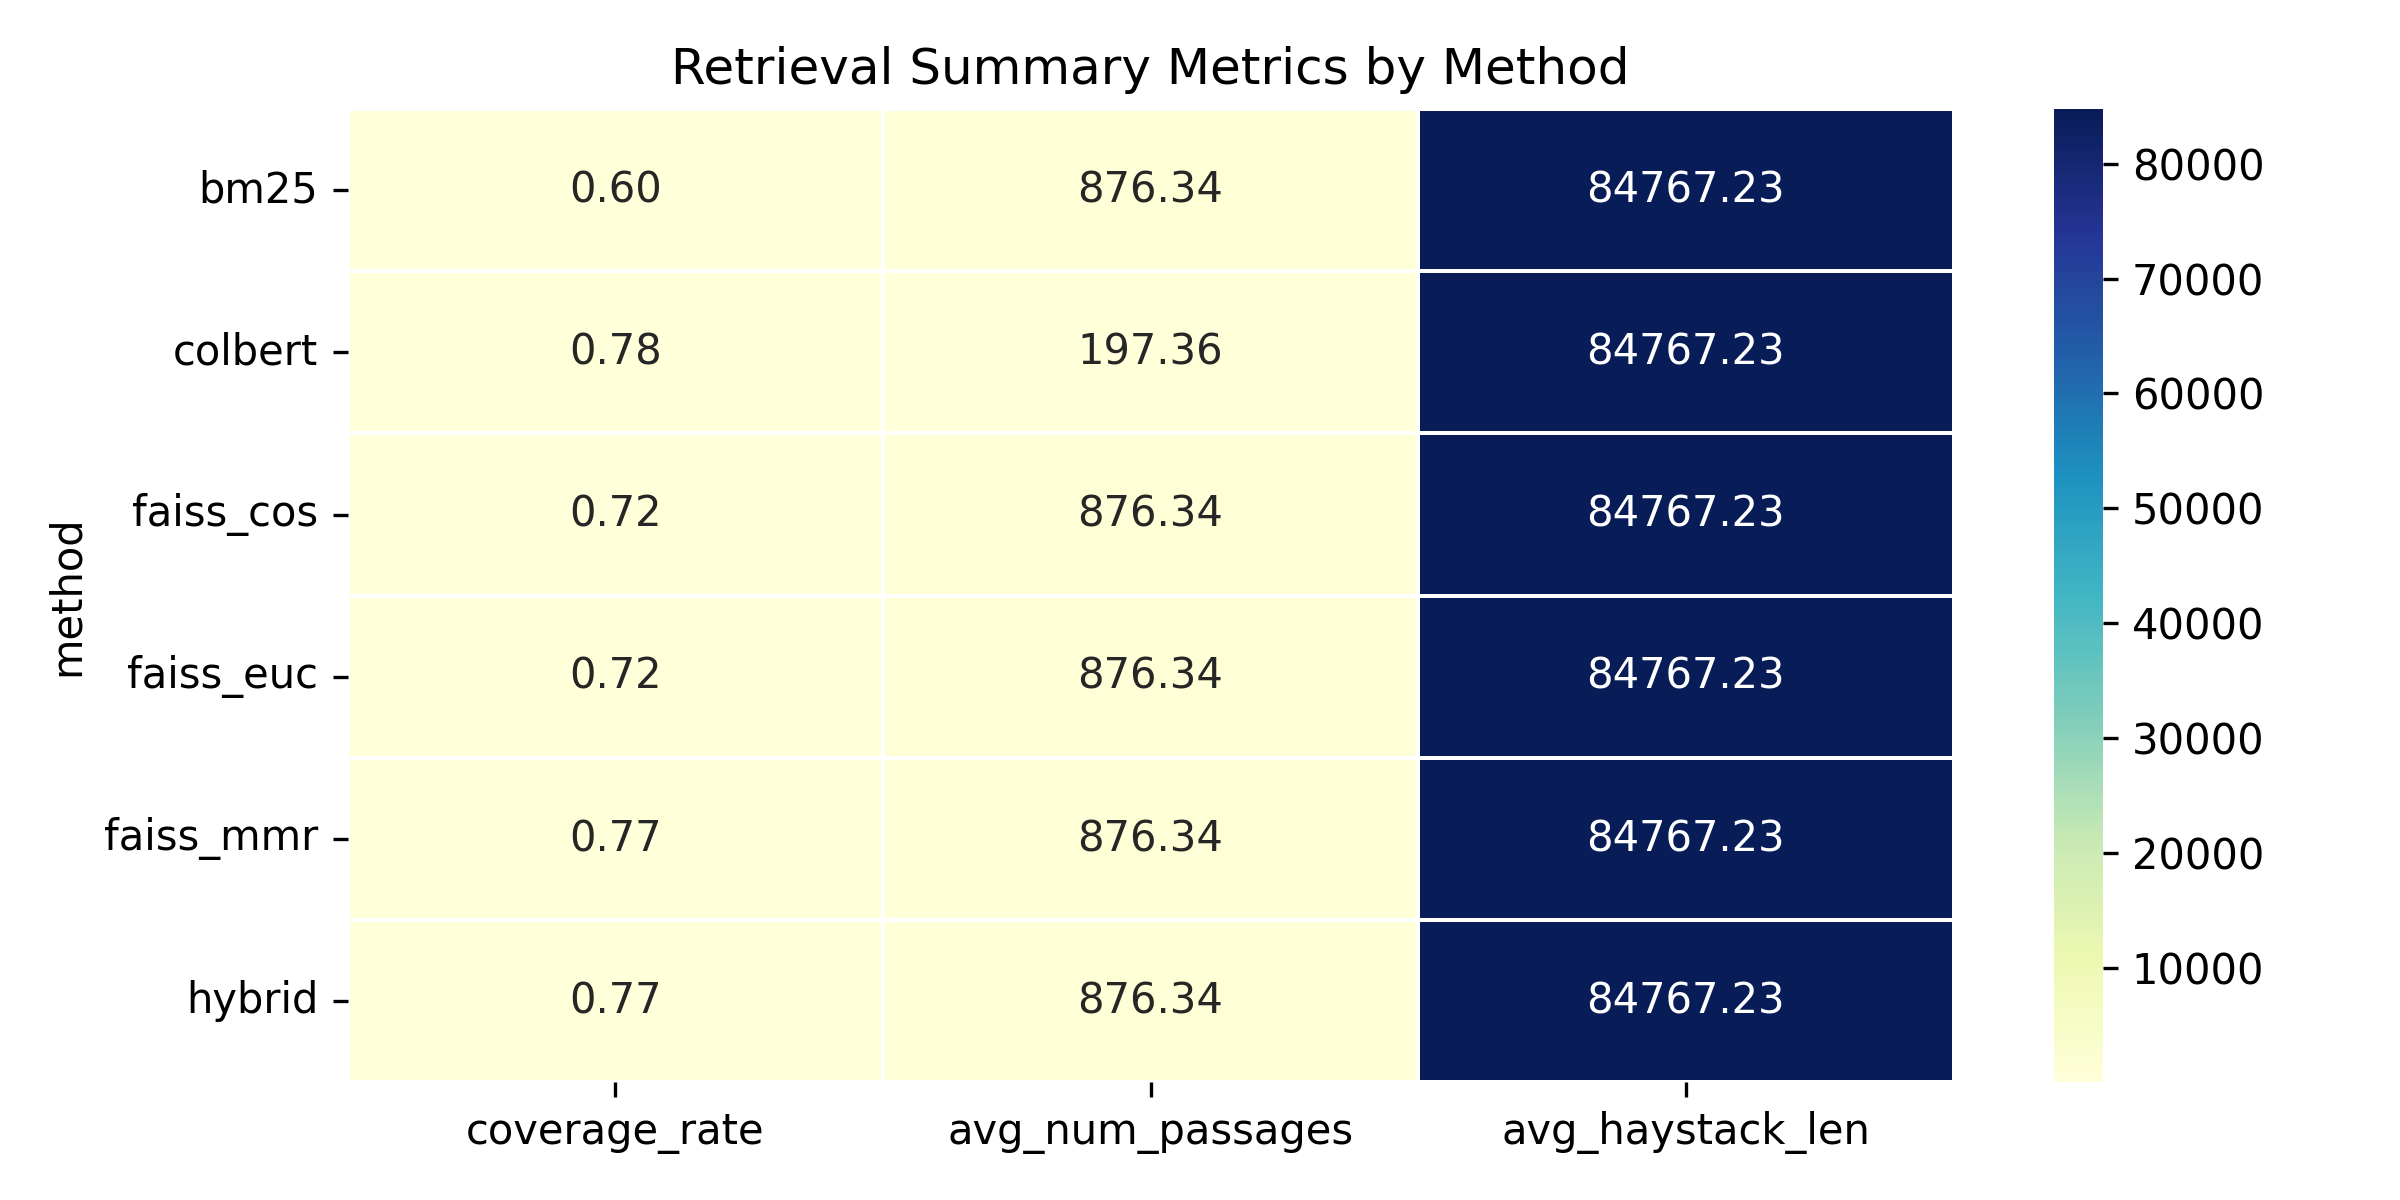
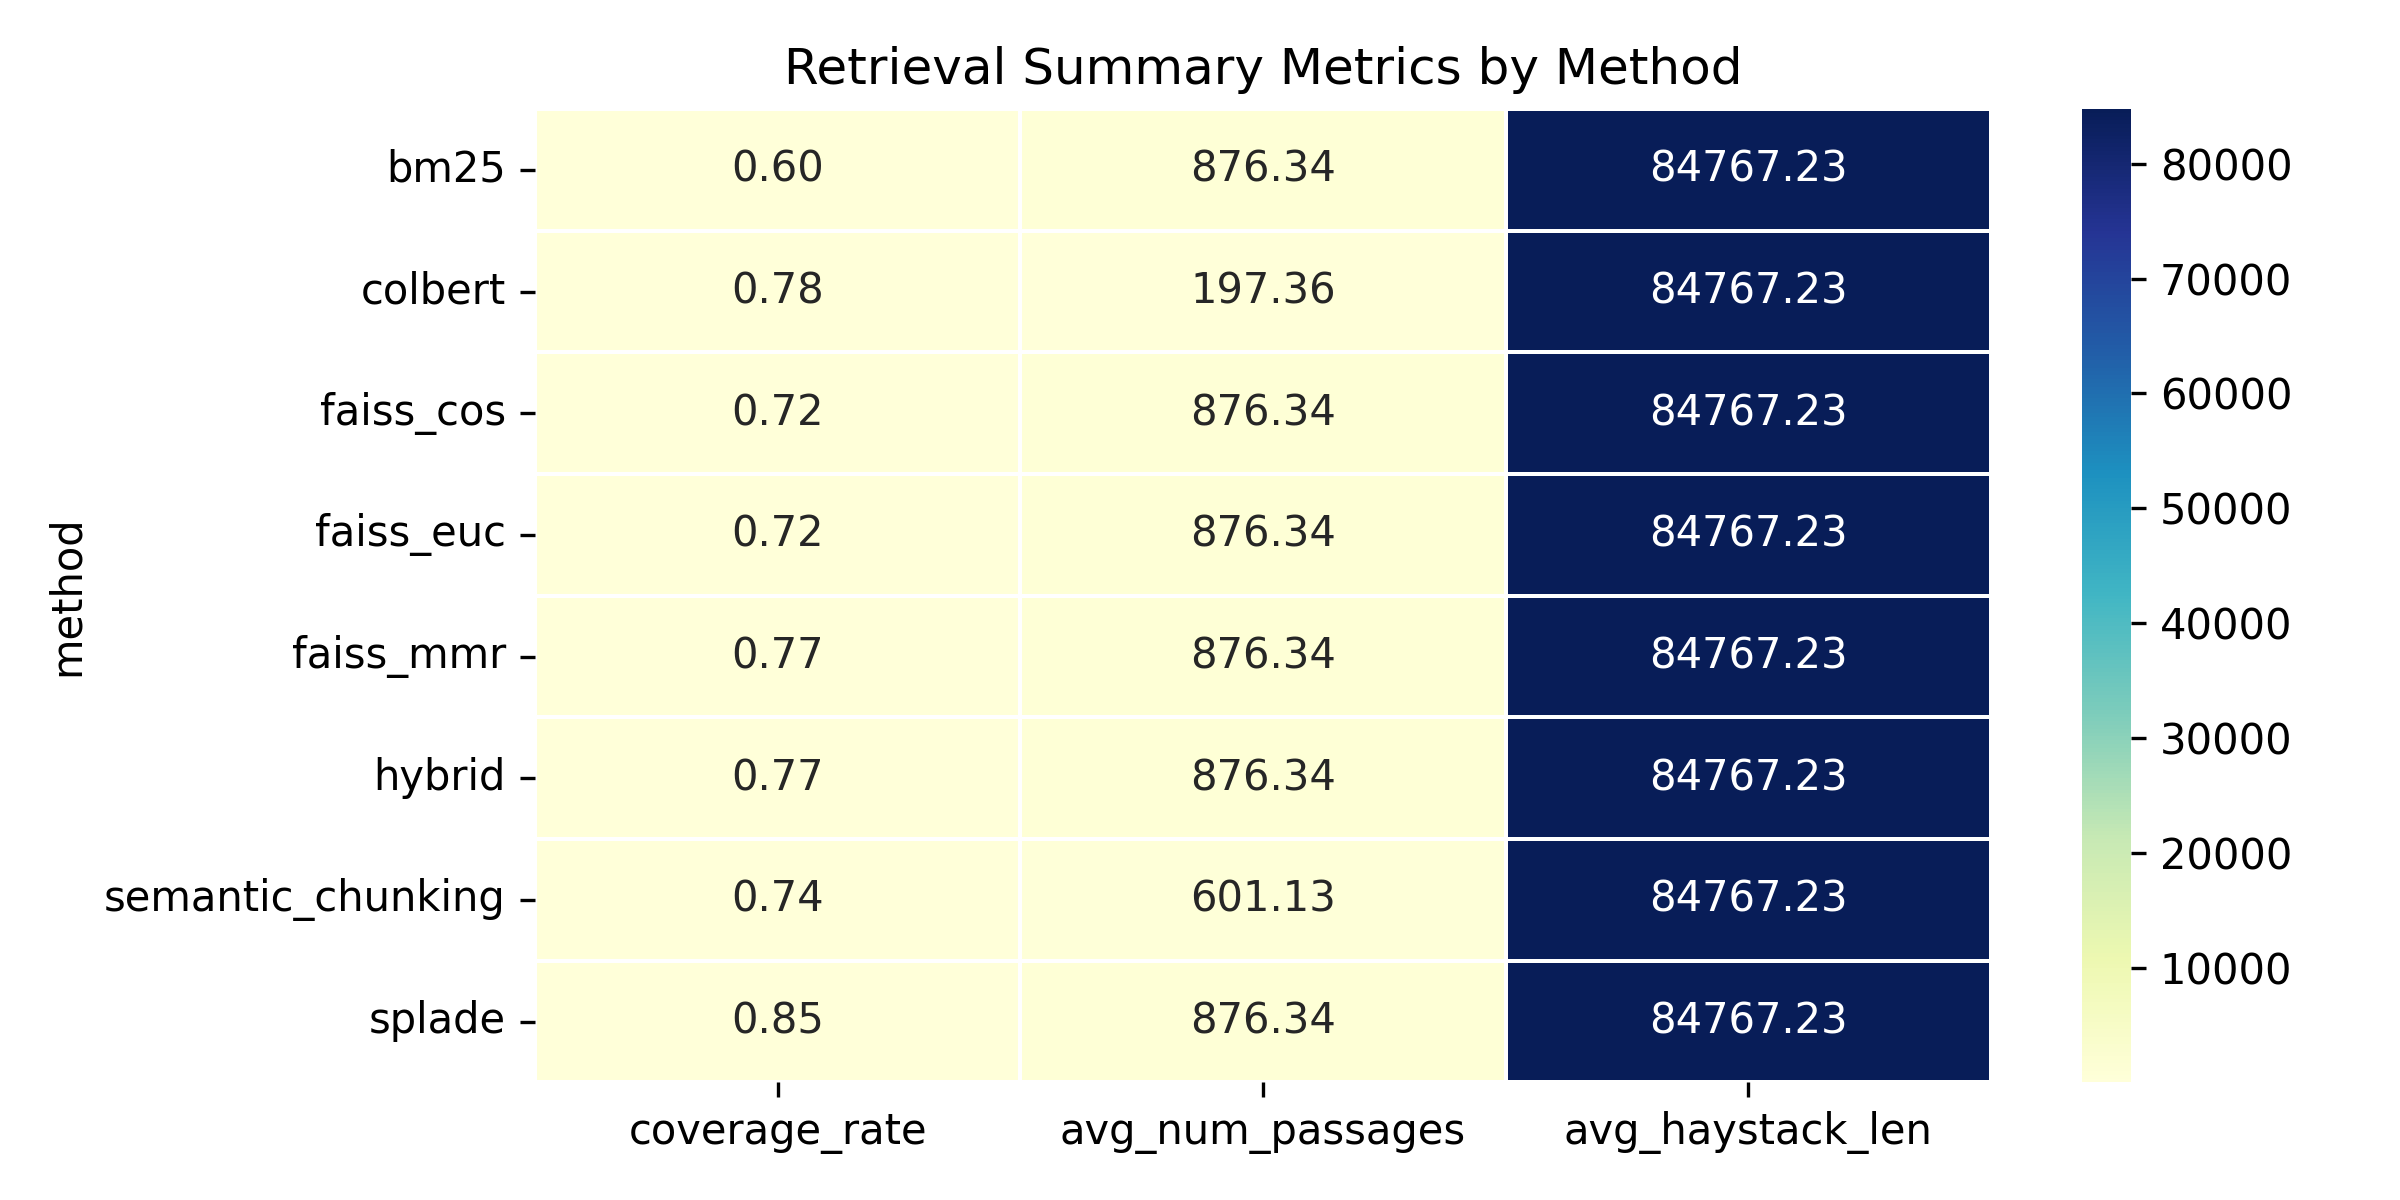
add splade ann semantic chunking retrieval results

diff --git a/src/retrieval_query/splade.py b/src/retrieval_query/splade.py
@@ -1,0 +1,142 @@
+import os
+import argparse
+import numpy as np
+import pandas as pd
+from tqdm import tqdm
+
+import nltk
+from nltk.tokenize import sent_tokenize
+nltk.download("punkt")
+
+os.environ["TOKENIZERS_PARALLELISM"] = "false"
+os.environ["OMP_NUM_THREADS"] = "1"
+os.environ["MKL_NUM_THREADS"] = "1"
+
+import torch
+from transformers import AutoTokenizer, AutoModelForMaskedLM
+
+DEFAULT_SPLADE = "naver/splade-cocondenser-ensembledistil"
+
+
+def chunk_sliding_sentences(text: str, window_size: int = 3):
+    sents = sent_tokenize(str(text))
+    if not sents:
+        return []
+    if window_size <= 0 or len(sents) <= window_size:
+        return [" ".join(sents)]
+    return [" ".join(sents[i:i + window_size]) for i in range(len(sents) - window_size + 1)]
+
+
+@torch.no_grad()
+def splade_encode(texts, tokenizer, model, device, max_length=256):
+
+    tok = tokenizer(
+        texts,
+        padding=True,
+        truncation=True,
+        max_length=max_length,
+        return_tensors="pt",
+    ).to(device)
+
+    logits = model(**tok).logits  # [B, T, V]
+    weights = torch.log1p(torch.relu(logits))
+    sparse = torch.max(weights, dim=1).values  # [B, V]
+
+    return sparse.cpu().numpy()
+
+
+
+def retrieve_topk(chunks, query, tokenizer, model, device, top_k=5, max_length=256, batch_size=8):
+    if not chunks:
+        return []
+
+    q_vec = splade_encode([query], tokenizer, model, device, max_length=max_length)[0]
+
+    doc_vecs = []
+    for i in range(0, len(chunks), batch_size):
+        batch = chunks[i:i + batch_size]
+        doc_vecs.append(splade_encode(batch, tokenizer, model, device, max_length=max_length))
+    doc_mat = np.vstack(doc_vecs)
+
+    scores = doc_mat @ q_vec
+    k = min(top_k, len(chunks))
+    idx = np.argsort(scores)[::-1][:k]
+    return [chunks[i] for i in idx]
+
+
+def main():
+    parser = argparse.ArgumentParser()
+    parser.add_argument("--haystack_csv", type=str, default="src/haystacks/mimic_haystack.csv")
+    parser.add_argument("--output_csv", type=str, default="src/retrieval_query/outputs/splade_patient_results.csv")
+    parser.add_argument("--top_k", type=int, default=5)
+    parser.add_argument("--window_size", type=int, default=3)
+    parser.add_argument("--model_name", type=str, default=DEFAULT_SPLADE)
+    parser.add_argument("--max_length", type=int, default=256)
+    parser.add_argument("--batch_size", type=int, default=8)
+    parser.add_argument("--limit_rows", type=int, default=None)
+    args = parser.parse_args()
+
+    df = pd.read_csv(args.haystack_csv)
+    if args.limit_rows:
+        df = df.head(args.limit_rows)
+
+    device = "cuda" if torch.cuda.is_available() else "cpu"
+
+    tokenizer = AutoTokenizer.from_pretrained(args.model_name)
+    model = AutoModelForMaskedLM.from_pretrained(args.model_name).to(device)
+    model.eval()
+
+    results = []
+    found_count = 0
+
+    for i, row in tqdm(df.iterrows(), total=len(df), desc="SPLADE retrieval"):
+        haystack = str(row["PATIENT_RECORD"])
+        query = str(row["QUERY"])         
+        needle = str(row["NEEDLE_INSERTED"])
+
+        chunks = chunk_sliding_sentences(haystack, window_size=args.window_size)
+        top_passages = retrieve_topk(
+            chunks, query, tokenizer, model, device,
+            top_k=args.top_k, max_length=args.max_length, batch_size=args.batch_size
+        )
+
+        needle_rank = np.nan
+        for rank, passage in enumerate(top_passages):
+            if needle in passage:
+                needle_rank = rank + 1
+                break
+
+        found = not np.isnan(needle_rank)
+        if found:
+            found_count += 1
+
+        results.append({
+            "SUBJECT_ID": row["SUBJECT_ID"],
+            "NUM_NOTES": row["NUM_NOTES"],
+            "query": query,
+            "needle": needle,
+            "needle_rank": needle_rank,
+            "found": found,
+            "num_passages": len(chunks),
+            "haystack_len_chars": len(haystack),
+            "top_passages": top_passages,
+        })
+
+        tqdm.write(f"Progress: {i+1}/{len(df)}, Current Needle Rank: {needle_rank}, Current Recall@{args.top_k}: {found_count/(i+1):.2f}")
+
+    results_df = pd.DataFrame(results)
+
+    print("\n===== Retrieval Rank Metrics =====")
+    print(f"Mean needle rank: {results_df['needle_rank'].dropna().mean():.2f}")
+    print(f"% needles at rank 1: {(results_df['needle_rank'] == 1).mean():.2%}")
+    print(f"% needles at rank ≤ {args.top_k}: {(results_df['needle_rank'] <= args.top_k).mean():.2%}")
+    print(f"Recall@{args.top_k}: {results_df['found'].mean():.4f}")
+
+    os.makedirs(os.path.dirname(args.output_csv), exist_ok=True)
+    results_df.to_csv(args.output_csv, index=False)
+
+    print(f"\nSaved SPLADE results to {args.output_csv}")
+
+
+if __name__ == "__main__":
+    main()

diff --git a/src/retrieval_query/semantic_chunking.py b/src/retrieval_query/semantic_chunking.py
@@ -1,0 +1,138 @@
+import os
+import argparse
+import numpy as np
+import pandas as pd
+from tqdm import tqdm
+
+import nltk
+from nltk.tokenize import sent_tokenize
+nltk.download("punkt")
+
+from sentence_transformers import SentenceTransformer
+import faiss
+
+os.environ["TOKENIZERS_PARALLELISM"] = "false"
+os.environ["OMP_NUM_THREADS"] = "1"
+os.environ["MKL_NUM_THREADS"] = "1"
+
+DEFAULT_MODEL = "all-MiniLM-L6-v2"
+
+
+def chunk_by_similarity(text: str, model: SentenceTransformer, max_sents: int, similarity_threshold: float):
+    sents = sent_tokenize(str(text))
+    if not sents:
+        return []
+
+    emb = model.encode(sents, convert_to_numpy=True, show_progress_bar=False)
+    faiss.normalize_L2(emb)
+
+    chunks = []
+    cur = [sents[0]]
+    cur_centroid = emb[0].copy()
+
+    def cos(a, b):
+        return float(np.dot(a, b))
+
+    for i in range(1, len(sents)):
+        sim = cos(cur_centroid, emb[i])
+
+        if (len(cur) >= max_sents) or (sim < similarity_threshold):
+            chunks.append(" ".join(cur))
+            cur = [sents[i]]
+            cur_centroid = emb[i].copy()
+        else:
+            cur.append(sents[i])
+            cur_centroid = cur_centroid + emb[i]
+            cur_centroid = cur_centroid / (np.linalg.norm(cur_centroid) + 1e-12)
+
+    if cur:
+        chunks.append(" ".join(cur))
+
+    return list(dict.fromkeys([c.strip() for c in chunks if c.strip()]))
+
+
+def retrieve_topk_cosine(chunks, query, model, top_k: int):
+    if not chunks:
+        return []
+
+    doc_emb = model.encode(chunks, convert_to_numpy=True, show_progress_bar=False)
+    q_emb = model.encode([query], convert_to_numpy=True, show_progress_bar=False)
+
+    faiss.normalize_L2(doc_emb)
+    faiss.normalize_L2(q_emb)
+
+    index = faiss.IndexFlatIP(doc_emb.shape[1])
+    index.add(doc_emb)
+
+    k = min(top_k, len(chunks))
+    _, idx = index.search(q_emb, k)
+    return [chunks[i] for i in idx[0]]
+
+
+def main():
+    ap = argparse.ArgumentParser()
+    ap.add_argument("--haystack_csv", type=str, default="src/haystacks/mimic_haystack.csv")
+    ap.add_argument("--output_csv", type=str, default="src/retrieval_query/outputs/semantic_chunking_patient_results.csv")
+    ap.add_argument("--top_k", type=int, default=5)
+    ap.add_argument("--max_sents", type=int, default=5)
+    ap.add_argument("--sim_threshold", type=float, default=0.55)
+    ap.add_argument("--embed_model", type=str, default=DEFAULT_MODEL)
+    ap.add_argument("--limit_rows", type=int, default=None)
+    args = ap.parse_args()
+
+    df = pd.read_csv(args.haystack_csv)
+    if args.limit_rows:
+        df = df.head(args.limit_rows)
+
+    model = SentenceTransformer(args.embed_model)
+
+    results = []
+    found_count = 0
+
+    for idx, row in tqdm(df.iterrows(), total=len(df), desc="Semantic chunking retrieval"):
+        haystack = str(row["PATIENT_RECORD"])
+        needle = str(row["NEEDLE_INSERTED"])   
+        query = str(row["QUERY"])              
+
+        chunks = chunk_by_similarity(haystack, model=model, max_sents=args.max_sents, similarity_threshold=args.sim_threshold)
+        top_passages = retrieve_topk_cosine(chunks, query, model, top_k=args.top_k)
+
+        needle_rank = np.nan
+        for i, passage in enumerate(top_passages):
+            if needle in passage:
+                needle_rank = i + 1
+                break
+
+        found = not np.isnan(needle_rank)
+        if found:
+            found_count += 1
+
+        results.append({
+            "SUBJECT_ID": row.get("SUBJECT_ID", np.nan),
+            "NUM_NOTES": row.get("NUM_NOTES", np.nan),
+            "query": query,
+            "needle": needle,
+            "needle_rank": needle_rank,
+            "found": found,
+            "num_passages": len(chunks),
+            "haystack_len_chars": len(haystack),
+            "top_passages": top_passages
+        })
+
+        tqdm.write(f"Progress: {idx+1}/{len(df)}, Current Needle Rank: {needle_rank}, Current Recall@{args.top_k}: {found_count/(idx+1):.2f}")
+
+    results_df = pd.DataFrame(results)
+    print("\n===== Retrieval Rank Metrics =====")
+    print(f"Mean needle rank: {results_df['needle_rank'].dropna().mean():.2f}")
+    print(f"% needles at rank 1: {(results_df['needle_rank'] == 1).mean():.2%}")
+    print(f"% needles at rank ≤ {args.top_k}: {(results_df['needle_rank'] <= args.top_k).mean():.2%}")
+    print(f"Recall@{args.top_k}: {results_df['found'].mean():.4f}")
+
+    os.makedirs(os.path.dirname(args.output_csv), exist_ok=True)
+    results_df.to_csv(args.output_csv, index=False)
+    print(f"Saved to {args.output_csv}")
+
+
+if __name__ == "__main__":
+    main()
+ 

diff --git a/src/results_patient_level/visualize_retrieval.py b/src/results_patient_level/visualize_retrieval.py
@@ -109,7 +109,7 @@ def plot_colbert_results(csv_file):
 
 
 if __name__ == "__main__":
-    methods = ["bm25", "colbert", "faiss_cos", "faiss_euc", "faiss_mmr", "hybrid"]
+    methods = ["bm25", "colbert", "faiss_cos", "faiss_euc", "faiss_mmr", "hybrid", "semantic_chunking", "splade"]
     method_dfs = {method: load_retrieval_csv(method) for method in methods}
 
     # Coverage plot
